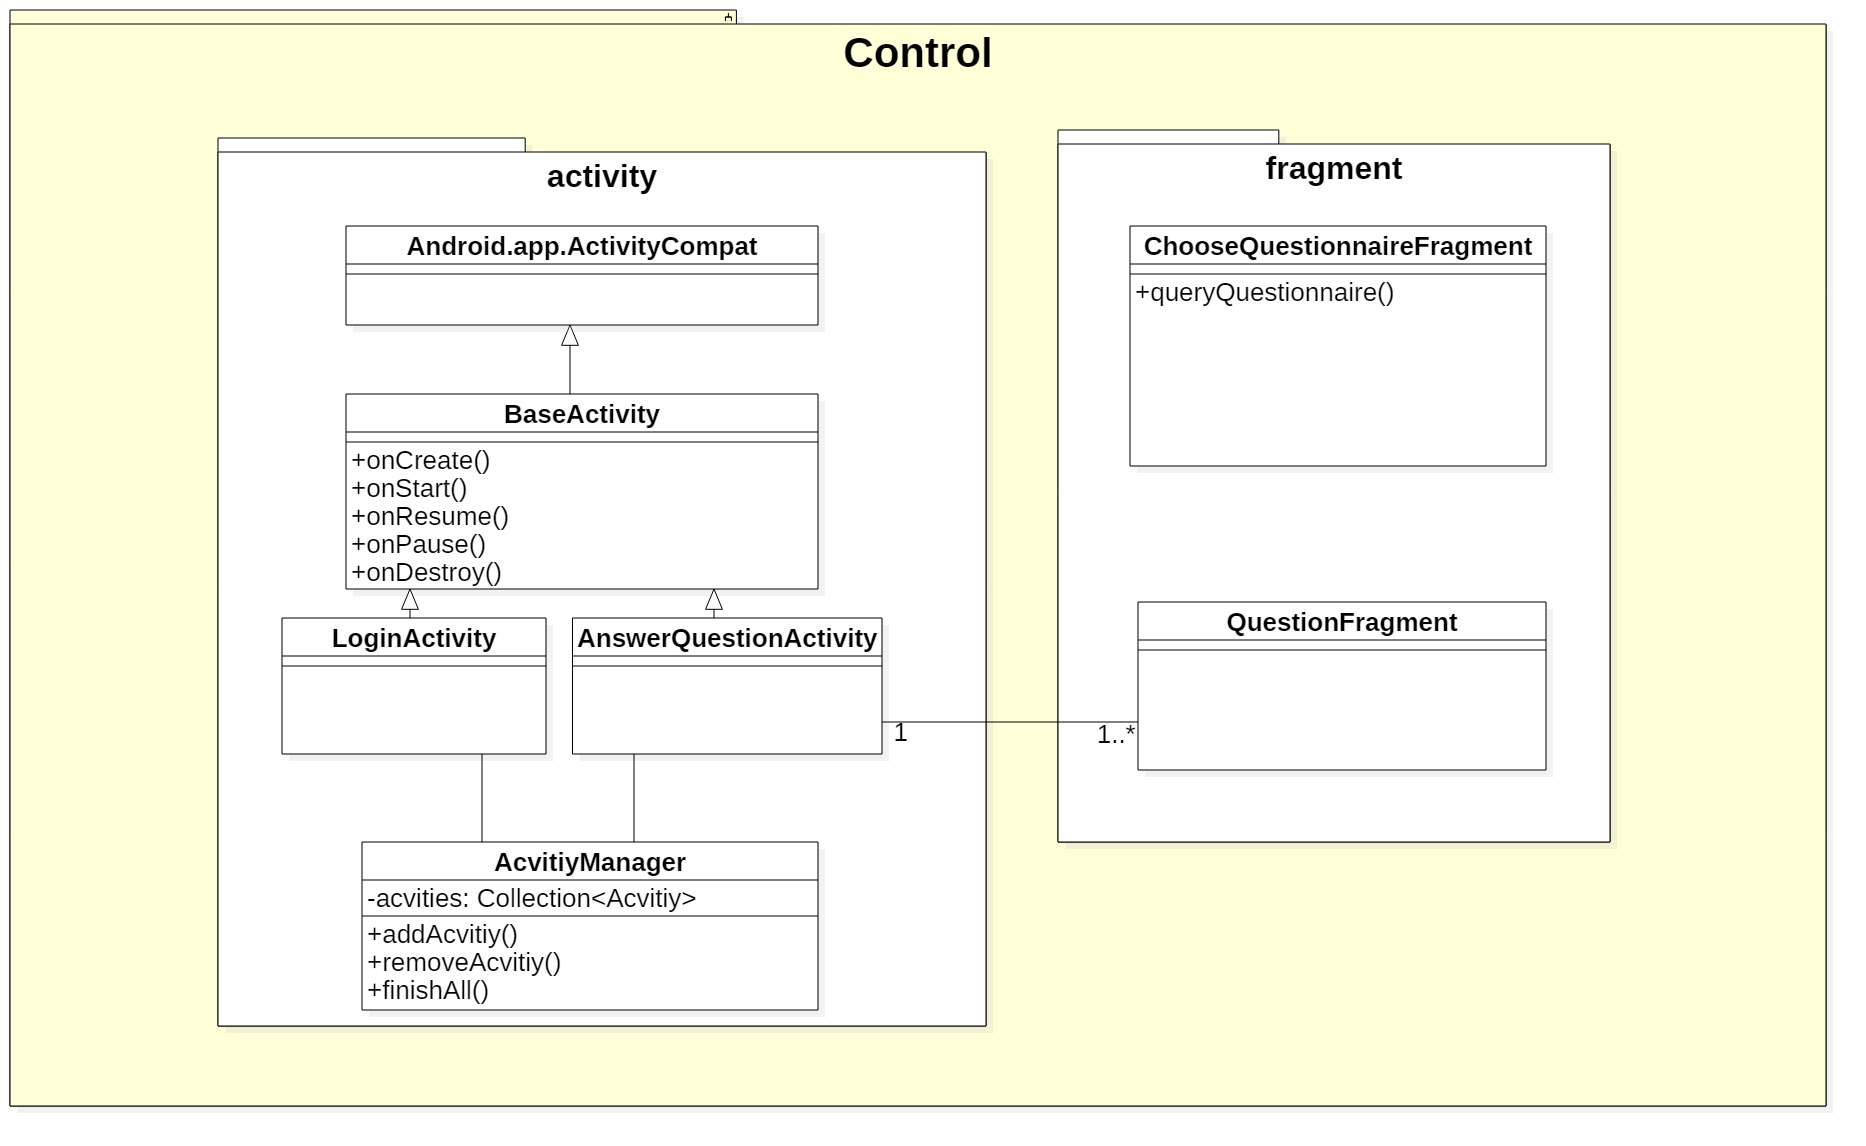
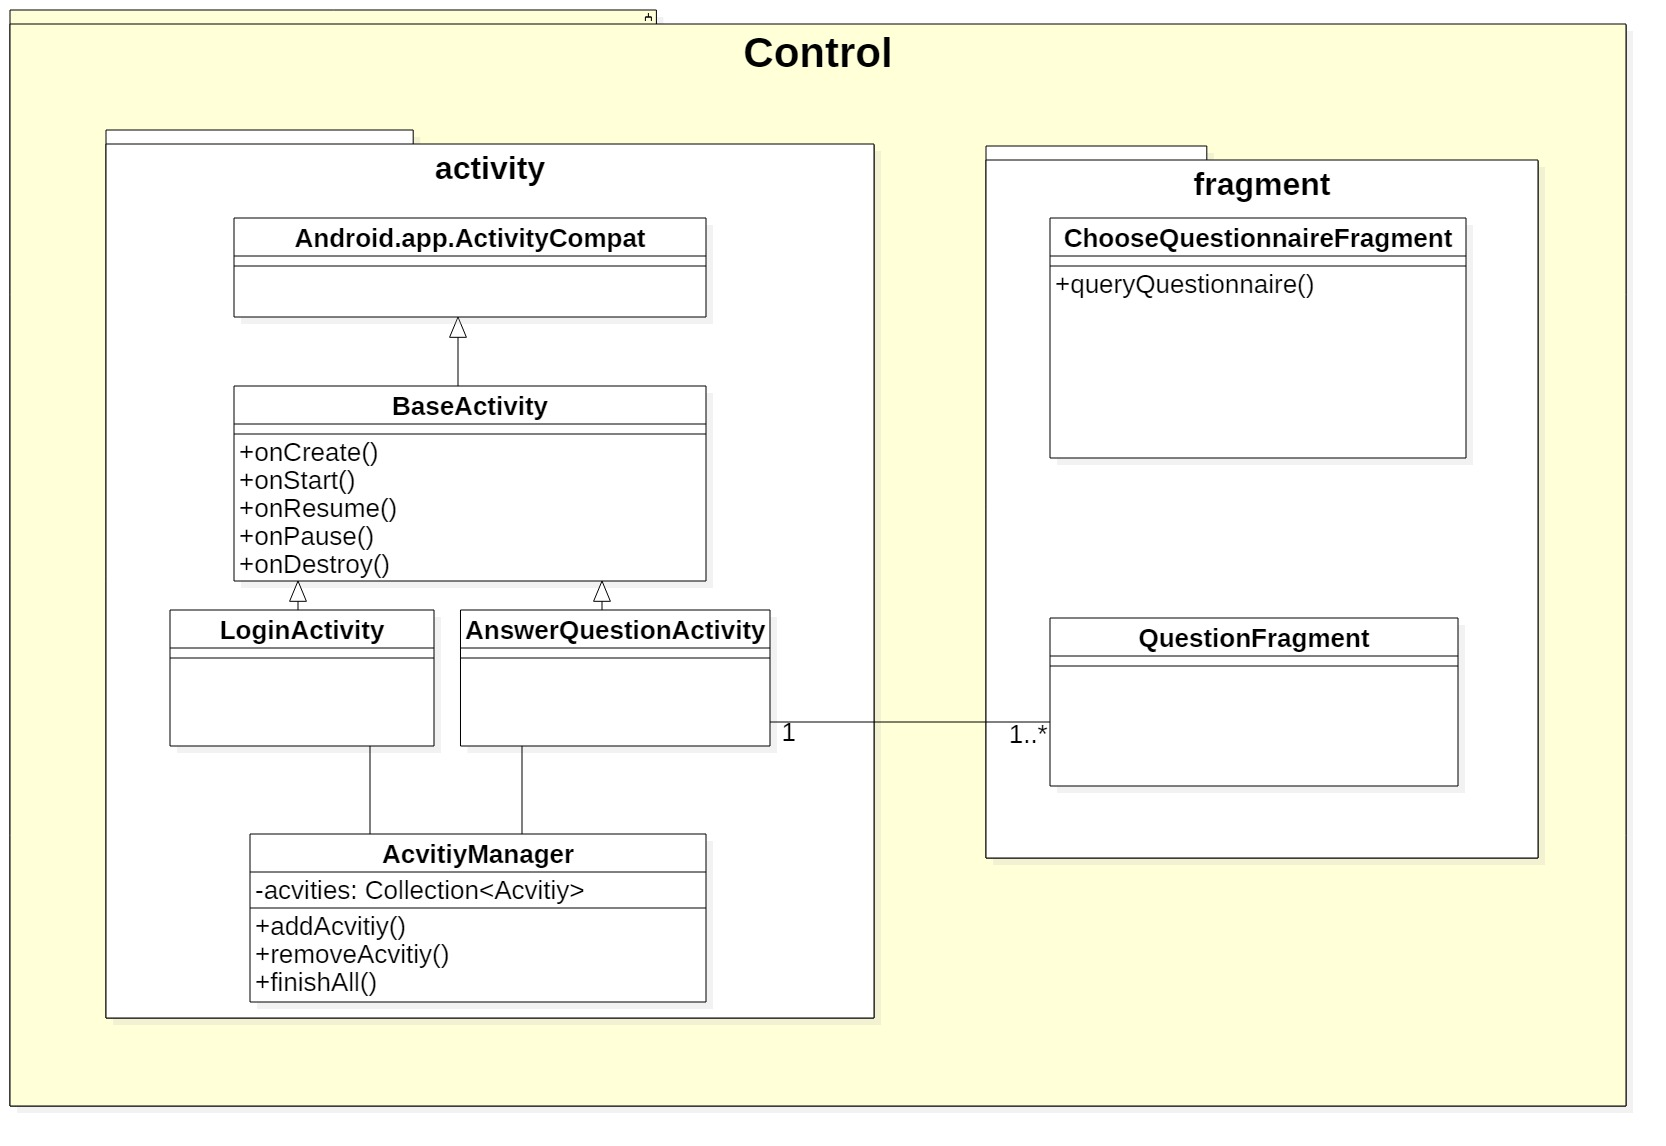
add description for package sensor and control

diff --git a/Entwurfsheft/entwurf.tex b/Entwurfsheft/entwurf.tex
@@ -288,7 +288,7 @@
 
                 \subsubsection{abstract class \code{QuestionStrategy<T>}} %super abstract class
 
-                    Hier wird Entwurfsmuster Stagtegie (eng: Strategy) eingesetzt, indem \code{QuestionStrategy} als Aggregation von \code{Question} und gleichzeitig als Oberklasse (eng: super class) von \code{SingleChoice}, \code{MutipleChoice}, \code{StepScale}, \code{DragScale} und \code{TextAnswer} gesetzt wird. 
+                    Hier wird Entwurfsmuster Stagtegie (eng: Strategy) eingesetzt, indem \code{QuestionStrategy} als Aggregation von \code{Question} und gleichzeitig als Oberklasse (eng: super class) von \code{SingleChoice}, \code{MutipleChoice}, \code{StepScale}, \code{DragScale} und \code{TextAnswer} gesetzt wird.
                     \begin{enumerate}
                         \item Attribute
                             \begin{itemize}
@@ -313,17 +313,29 @@
                     \end{enumerate}
 
 
-            \subsection{Sensor}
+            \subsection{package \code{Sensor}}
             \begin{figure}[H]
                 \centering
                 \includegraphics[scale = 0.5]{ClassDiagramAppSensor.jpg}
                 \caption{Klassendiagramm für Sensoren in der Android Applikation }
             \end{figure}
-                \subsubsection{SensorManager}
-                \subsubsection{AccelerometerSensor}
-                \subsubsection{GravitySensor}
-                \subsubsection{MagneticFeldSensor}
-                \subsubsection{TemperatureSensor}
+                \subsubsection{class \code{SensorManager}}
+                Diese Klasse ist einer Manager aller Sensoren, die in diesem Fragebogen bunutzt werden.
+                \begin{enumerate}
+                  \item Attribute
+                    \begin{itemize}
+                      \item \code{sensors:Collection<Sensor>}
+                    \end{itemize}
+                \end{enumerate}
+                \subsubsection{class \code{AccelerometerSensor}}
+                Diese Klasse handelt es sich um den Sensor über Beschleunigung.
+                \subsubsection{class \code{GravitySensor}}
+                Diese Klasse handelt es sich um den Sensor über Gravitation.
+                \subsubsection{class \code{MagneticFeldSensor}}
+                Diese Klasse handelt es sich um den Sensor über Magnetfeld.
+                \subsubsection{class \code{TemperatureSensor}}
+                Diese Klasse handelt es sich um den Sensor über Temperatur.
+                
 
 
         \section{View}
@@ -332,23 +344,67 @@
 
 
         \section{Control}
+         Der Teil Model besteht aus zwei Pakete: activity und fragment.
             \begin{figure}[H]
                 \centering
-                \includegraphics[scale = 0.25]{ControlClassDiagram(Android).jpg}
+                \includegraphics[scale = 0.3]{ControlClassDiagram(Android).jpg}
                 \caption{Klassendiagramm für Control in der Android Applikation }
             \end{figure}
 
             \subsection{activity}
 
-                \subsubsection{ActivityManager}
-                \subsubsection{BaseActivity}
-                \subsubsection{LogInActivity}
-                \subsubsection{AnswerQuestionActivity}
+                \subsubsection{class \code{ActivityManager}}
+                \begin{enumerate}
+                \item Attribute
+                     \begin{itemize}
+                                \item \code{acvities: Collection<Acvitiy>}
+                     \end{itemize}
+                \item Methoden
+                     \begin{itemize}
+                                \item addAcvitiy()
+                                \item removeAcvitiy()
+                                \item finishAll()
+                     \end{itemize}
+                \end{enumerate}
+                \subsubsection{class \code{BaseActivity}}
+                \begin{enumerate}
+                        \item Attribute
+                        \item Methoden
+                            \begin{itemize}
+                                \item onCreate()
+                                \item onStart()
+                                \item onResume()
+                                \item onPause()
+                                \item onDestroy()
+                            \end{itemize}
+                \end{enumerate}
+                \subsubsection{class \code{LogInActivity}}
+                \begin{enumerate}
+                        \item Attribute
+                        \item Methoden
+                \end{enumerate}
+                \subsubsection{class \code{AnswerQuestionActivity}}
+                 \begin{enumerate}
+                        \item Attribute
+                        \item Methoden
+                \end{enumerate}
 
             \subsection{fragment}
 
-                \subsubsection{ChooseQuestionnaireFragment}
-                \subsubsection{QuestionFragment}
+                \subsubsection{class \code{ChooseQuestionnaireFragment}}
+                \begin{enumerate}
+                \item Attribute
+                \item Methoden
+                     \begin{itemize}
+                                \item queryQuestionnaire()
+                     \end{itemize}
+                \end{enumerate}
+                
+                \subsubsection{class \code{QuestionFragment}}
+                 \begin{enumerate}
+                        \item Attribute
+                        \item Methoden
+                \end{enumerate}
 
         \section{Hilfpaket}
 
